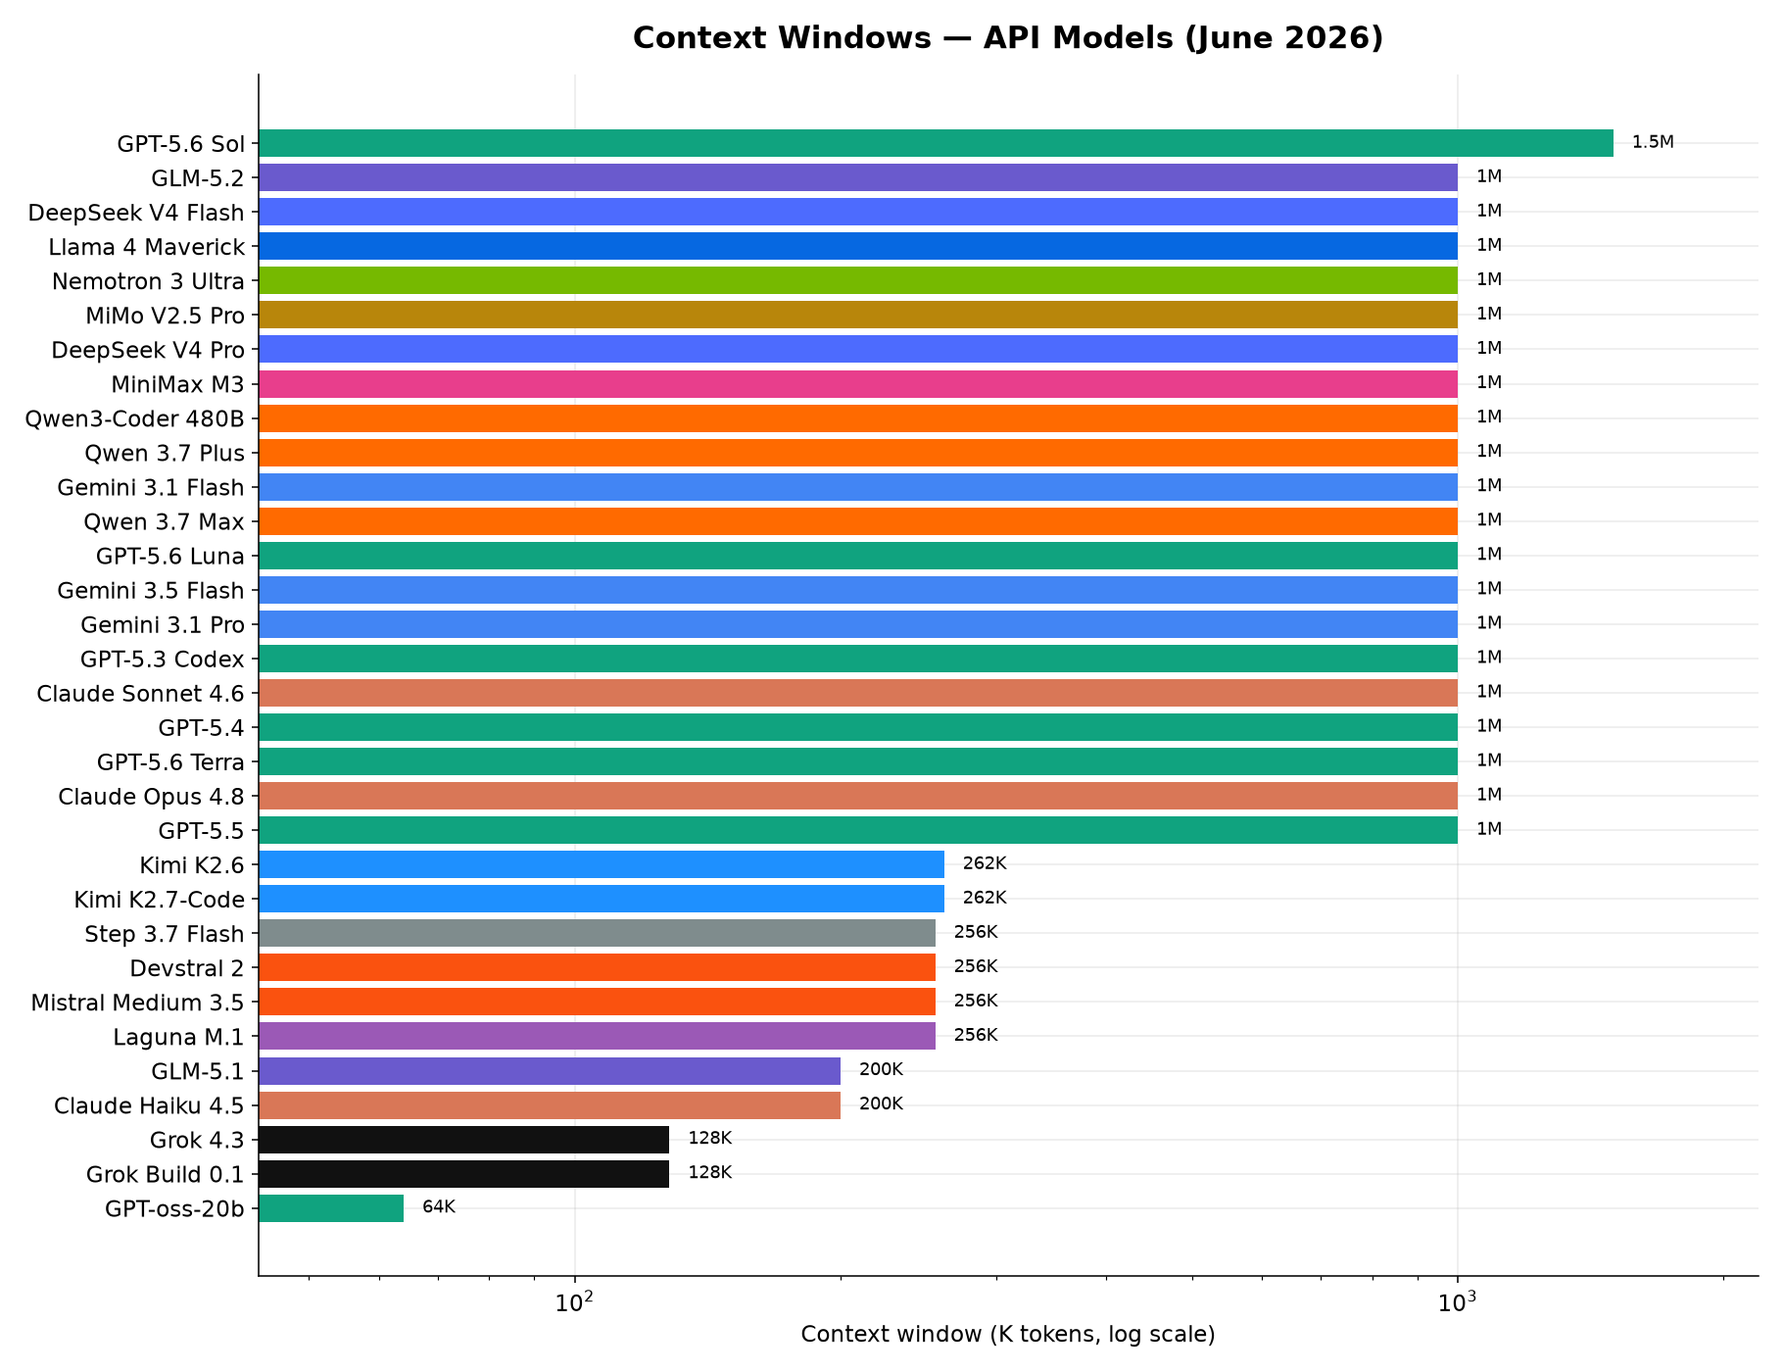
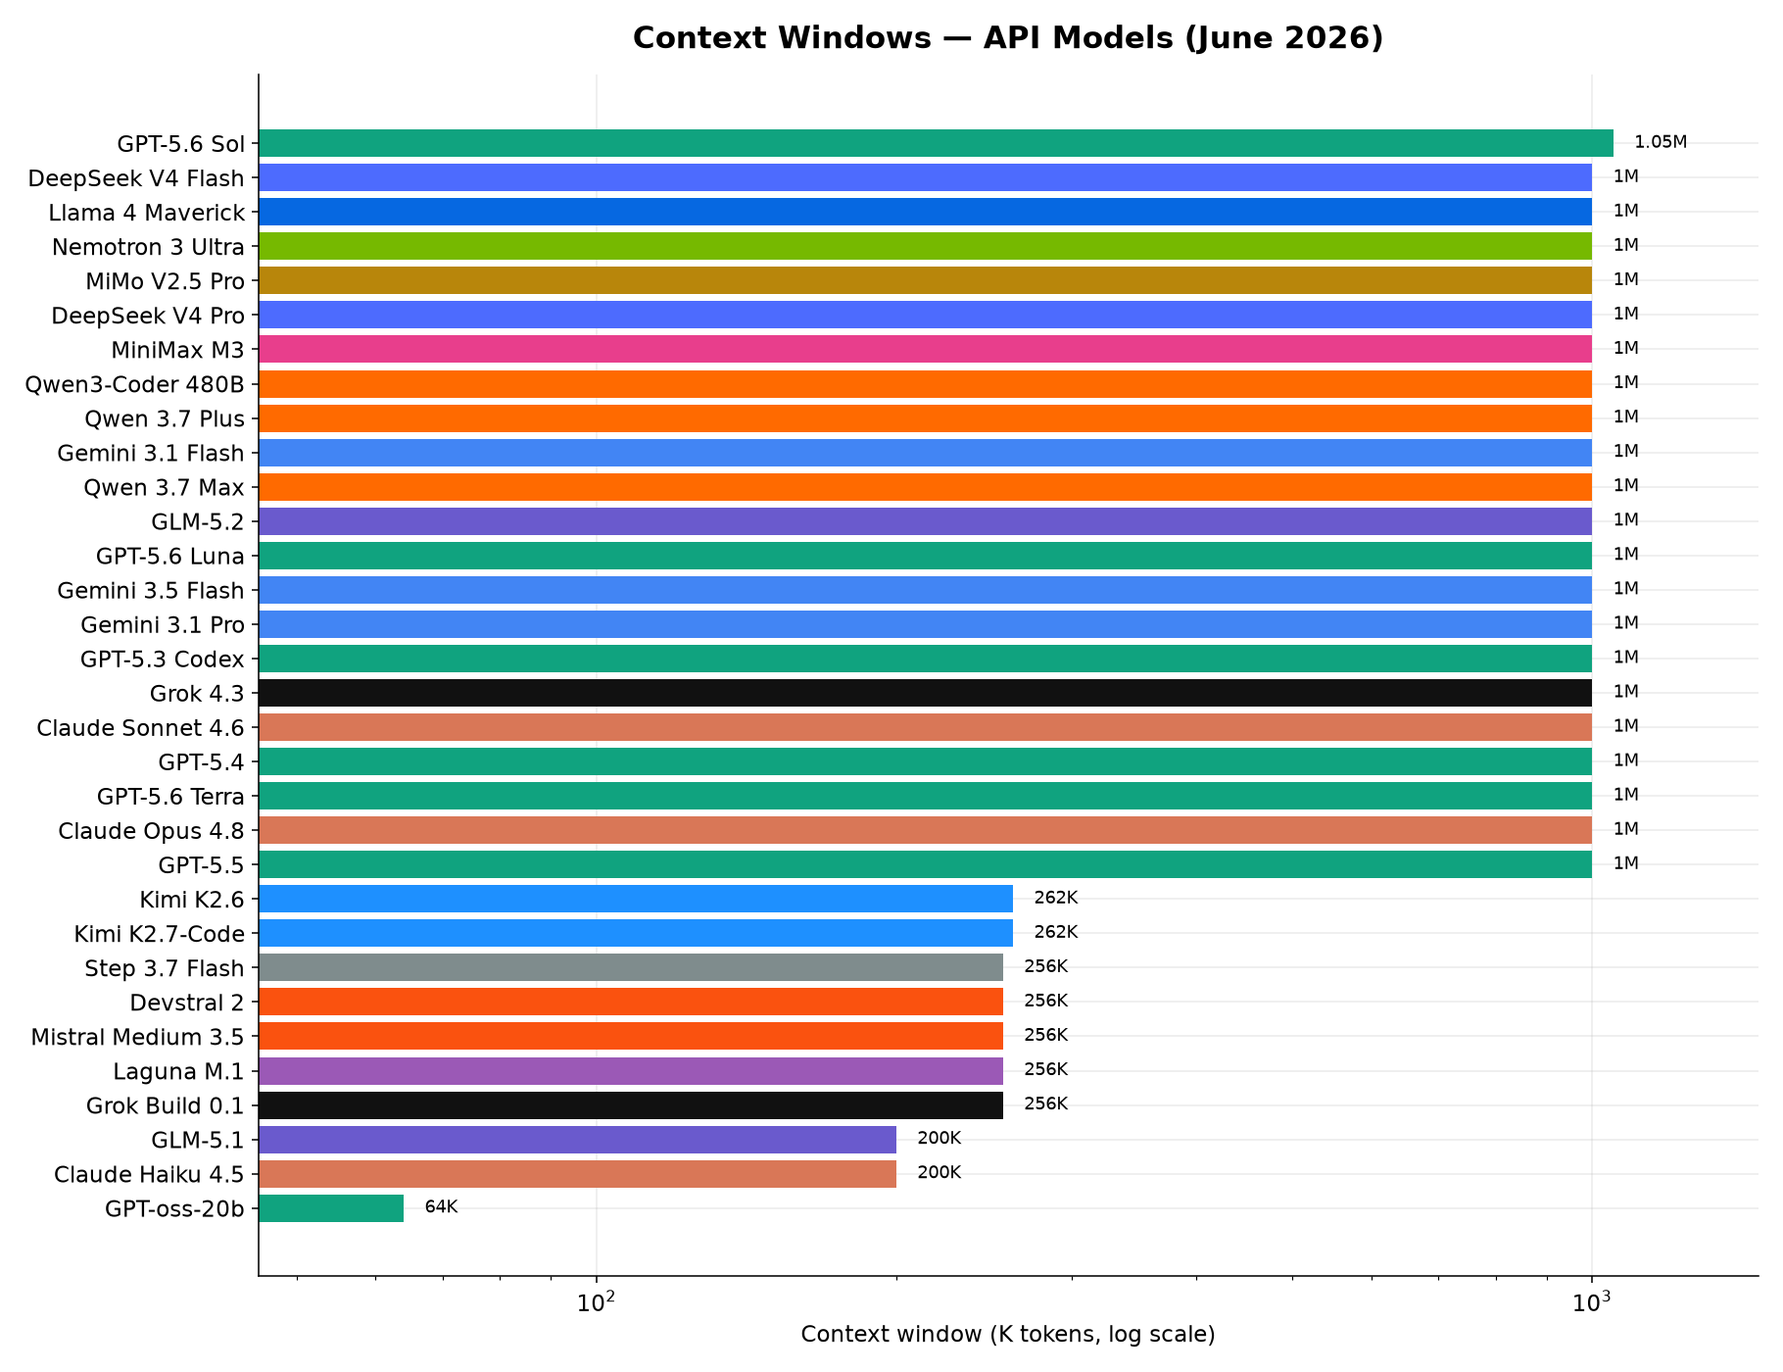
fix(models): fix stale prices/context, add new model ids
glm-5.2 price was off 10x, grok context stale 128k, sol
ctx wrong. add opus 5, sonnet 5, kimi k3, grok 4.5/4.6,
glm-5/5.3/5-turbo as text-only rows, no price/swe yet.
regen charts from fixed data, fail loud on unmapped color.

diff --git a/charts/gen_charts.py b/charts/gen_charts.py
@@ -30,7 +30,10 @@ COLORS = {
     "Mistral": "#fa520f", "DeepSeek": "#4d6bfe", "Xiaomi": "#b8860b", "Meta": "#0668e1",
     "NVIDIA": "#76b900", "StepFun": "#7f8c8d", "Poolside": "#9b59b6",
 }
-def c(co): return COLORS.get(co, "#999999")
+def c(co):
+    if co not in COLORS:
+        raise KeyError(f"no color mapped for company {co!r} — add it to COLORS in charts/gen_charts.py")
+    return COLORS[co]
 def money(x, _): return f"${x:g}"
 def save(fig, name): fig.tight_layout(); fig.savefig(os.path.join(HERE, name)); plt.close(fig)
 

diff --git a/MODELS.md b/MODELS.md
@@ -27,40 +27,44 @@
 
 | Model | Company | SWE-bench | Src | In $/1M | Out $/1M | Context | Notes |
 |---|---|---|---|---|---|---|---|
-| **Fable 5** | Anthropic | **95.0%** | [V] | $10 | $50 | 1M | Mythos-class (tier above Opus). GA Jun 9 → pulled from subs Jun 23, export-suspended Jun 12 (US controls). SWE-bench Pro 80.3%. 30-day forced retention |
-| **Mythos 5** | Anthropic | **95.5%** | [C] | $10 | $50 | 1M | Same base as Fable 5, safety classifiers removed. "World's strongest cyber model" (ExploitBench 78%). Restricted to Project Glasswing cyber-defenders. Not GA |
-| **GPT-5.6 Sol** | OpenAI | ~91%[est] | [V] | $5 | $30 | 1.5M | Preview Jun 26. Flagship. TB 2.1 **88.8%** (Sol Ultra 91.9%). Max + Ultra (parallel subagents). Cerebras 750 tok/s in July |
-| **GPT-5.6 Terra** | OpenAI | ~88%[est] | [V] | $2.50 | $15 | 1M | Preview Jun 26. GPT-5.5-class at half price |
-| **GPT-5.6 Luna** | OpenAI | ~84%[est] | [V] | $1 | $6 | 1M | Preview Jun 26. Fast/high-volume tier |
+| **Claude Opus 5** | Anthropic | — | — | — | — | 1M | Confirmed via platform.claude.com overview this pass. Context only — no price or SWE-bench number carried over from Opus 4.8, none confirmed for this model yet |
+| **Claude Sonnet 5** | Anthropic | — | — | — | — | 1M | Confirmed via platform.claude.com overview this pass. Context only — no price or SWE-bench number confirmed |
+| **Fable 5** | Anthropic | **95.0%** | [V] | $10 | $50 | 1M | Mythos-class (tier above Opus). GA Jun 9 → pulled from subs Jun 23, export-suspended Jun 12 (US controls). SWE-bench Pro 80.3%. 30-day forced retention. Only the 1M context was re-confirmed this pass — price, SWE-bench number, and the export-suspend story are from the prior pass, not re-checked, treat as stale |
+| **GPT-5.6 Sol** | OpenAI | ~91%[est] | [V] | $5 | $30 | 1.05M | Preview Jun 26. Flagship. TB 2.1 **88.8%** (Sol Ultra 91.9%). Max + Ultra (parallel subagents). Cerebras 750 tok/s in July. Context corrected from a prior 1.5M error — 1.05M is what OpenAI states. Price and SWE-bench estimate not re-confirmed this pass |
+| **GPT-5.6 Terra** | OpenAI | ~88%[est] | [V] | $2.50 | $15 | 1M | Preview Jun 26. GPT-5.5-class at half price. Price and SWE-bench estimate not re-confirmed this pass |
+| **GPT-5.6 Luna** | OpenAI | ~84%[est] | [V] | $1 | $6 | 1M | Preview Jun 26. Fast/high-volume tier. Price and SWE-bench estimate not re-confirmed this pass |
 | GPT-5.5 | OpenAI | 88.7% | open | $5 | $30 | 1M | Leads Terminal-Bench 2.1 (83.4% via Codex CLI) |
-| Claude Opus 4.8 | Anthropic | 88.6% | [V] | $5 | $25 | 1M | Released May 28. Best SWE-bench Pro (69.2%). Scale SEAL ~51.9% |
+| Claude Opus 4.8 | Anthropic | 88.6% | [V] | $5 | $25 | 1M | Released May 28. Best SWE-bench Pro (69.2%). Scale SEAL ~51.9%. **Superseded** — Claude Opus 5 is now the current flagship, kept here as history |
 | GPT-5.3 Codex | OpenAI | 85.0% | [C] | $1.75 | $14 | 1M | Codex API, agentic coding focus |
 | GPT-5.4 | OpenAI | 84.1% | open | $2.50 | $15 | 1M | Scale SEAL 59.1% (xHigh) |
-| Claude Sonnet 4.6 | Anthropic | 82.8% | [V] | $3 | $15 | 1M | Best-value Anthropic flagship |
+| Claude Sonnet 4.6 | Anthropic | 82.8% | [V] | $3 | $15 | 1M | Best-value Anthropic flagship. **Superseded** — Claude Sonnet 5 is now the current mid tier, kept here as history |
 | **Ornith-1.0-397B** | DeepReinforce | 82.4% | open | — | — | — | Jun 25, MIT weights (HF, self-host). 397B MoE flagship; family also 9B/31B/35B. Self-scaffolding RL — writes own agent scaffold before solving. TB 2.1 77.5%. Beats Opus 4.7, not 4.8. Vendor benches |
-| GLM-5.1 | Z.AI | 81.0% | [V] | $1.40 | $4.40 | 200K | First open model to top SWE-bench Pro |
-| DeepSeek V4 Pro | DeepSeek | 80.6% | open | $0.44 | **$0.87** | 1M | MIT license. Cache hits $0.001/M. Sweet spot |
-| Gemini 3.1 Pro | Google | 80.6% | open | $2 | $12 | 1M | Price doubles >200K ctx |
+| GLM-5.1 | Z.AI | 81.0% | [V] | $1.40 | $4.40 | 200K | First open model to top SWE-bench Pro. Price confirmed on docs.z.ai llms.txt. Context is not stated on the official pricing doc — treat 200K as unverified, carried from a prior pass |
+| DeepSeek V4 Pro | DeepSeek | 80.6% | open | $0.44 | **$0.87** | 1M | MIT license. Cache hits $0.001/M. Sweet spot. DeepSeek's own docs flag a pricing update Aug 13 2026 without giving new numbers — this price is presumed stale, not current |
+| Gemini 3.1 Pro | Google | 80.6% | open | $2 | $12 | 1M | Price doubles >200K ctx. The preview id and status are confirmed on Google's own model list; the 1M ctx, price, and SWE-bench figures were not re-checked against that list this pass — treat as a prior-pass caveat |
 | MiniMax M3 | MiniMax | 80.5% | open | $0.30 | **$1.20** | 1M | Open-weight MIT. Sweet spot |
-| Qwen 3.7 Max | Alibaba | 80.4% | open | $1.25 | $3.75 | 1M | Promo; list $2.50/$7.50 |
+| Qwen 3.7 Max | Alibaba | 80.4% | open | $1.25 | $3.75 | 1M | Promo; list $2.50/$7.50. The `qwen3.7-max` id is confirmed on Alibaba's Model Studio list; the 1M ctx figure and the "open" weight tag are not backed by that primary source (a secondary aggregator claims closed-weight instead, which contradicts "open") — both numbers here are unverified, carried from a prior pass |
 | Qwen 3.7 Plus | Alibaba | ~78% | open | $0.50 | $2.00 | 1M | Reasoning model, 1M ctx |
-| Kimi K2.6 | Moonshot | 80.2% | open | $0.95 | **$1.50** | 262K | 4,000+ tool calls/session. Sweet spot |
-| **Kimi K2.7-Code** | Moonshot | ~80%[est] | open | $0.95 | **$4** | 262K | Jun 12. 1T MoE/32B active, forced thinking. +21.8% Kimi Code Bench v2 vs K2.6, -30% reasoning tokens. Modified MIT. Vendor benches only |
-| Grok 4.3 | xAI | ~78% | [C] | $3 | $15 | 128K | Closed eval |
+| Kimi K2.6 | Moonshot | 80.2% | open | $0.95 | **$1.50** | 256K | 4,000+ tool calls/session. Sweet spot |
+| **Kimi K2.7-Code** | Moonshot | ~80%[est] | open | $0.95 | **$4** | 256K | Jun 12. 1T MoE/32B active, forced thinking. +21.8% Kimi Code Bench v2 vs K2.6, -30% reasoning tokens. Modified MIT. Vendor benches only |
+| **Kimi K3** | Moonshot | — | — | — | — | 1M | Confirmed live on platform.kimi.ai, described there as "most capable to date." Context only — no price or SWE-bench number confirmed this pass. Moved up from the Upcoming table now that it has shipped |
+| Grok 4.3 | xAI | ~78% | [C] | $3 | $15 | 1M | Closed eval. Context corrected from a prior 128K error — docs.x.ai states 1M |
 | Gemini 3.5 Flash | Google | 78.8% | open | $1.50 | $9 | 1M | |
+| **Grok 4.6** | xAI | — | — | — | — | 500K | docs.x.ai primary. Context only — no price or SWE-bench confirmed |
+| **Grok 4.5** | xAI | — | — | — | — | 500K | docs.x.ai primary. Context only — no price or SWE-bench confirmed |
 | Qwen3-Coder 480B | Alibaba | 78.0% | open | $0.22 | $1.80 | 1M | Apache 2.0, MoE 35B active. Free on OpenRouter |
-| Mistral Medium 3.5 | Mistral | 77.6% | open | $1.50 | $7.50 | 256K | EU-hosted, GDPR |
-| **Meta Muse Spark** | Meta (MSL) | 77.4% | [V] | — | — | — | Apr 8. First Meta Superintelligence Labs model (not Llama). Free on meta.ai, API private-preview only. Strong multimodal/health, weak agentic (TB 2.0 59%). Closed |
+| Mistral Medium 3.5 | Mistral | 77.6% | open | $1.50 | $7.50 | 256K | EU-hosted, GDPR. Context is from a prior pass, not re-confirmed against a primary source this time |
+| **Meta Muse Spark** | Meta (MSL) | 77.4% | [V] | — | — | — | Apr 8. First Meta Superintelligence Labs model (not Llama). Free on meta.ai, API private-preview only. Strong multimodal/health, weak agentic (TB 2.0 59%). Closed. Meta's own blog confirms the Muse family exists and is not Llama-branded, but the launch post itself wasn't fetched this pass — the rest of this row (SWE-bench, "free on meta.ai", Apr 8 date) is a prior-pass claim, not re-verified |
 | Laguna M.1 | Poolside | ~78% | [C] | $4 | $8 | 256K | Coding specialist |
 | MiMo V2.5 Pro | Xiaomi | 75.0% | open | $0.44 | **$0.87** | 1M | 40-60% fewer tokens/trajectory. Sweet spot |
 | Claude Haiku 4.5 | Anthropic | 74.8% | [V] | $1 | $5 | 200K | Fast, cheap Claude |
 | **MAI-Code-1-Flash** | Microsoft | ~74%[est] | [V] | — | — | — | 137B MoE/5B active. "Haiku-class but cheaper." Bundled into all Copilot plans + VS Code. Weights tunable. OpenRouter/Fireworks/Baseten |
-| Llama 4 Maverick | Meta | 74.0% | open | $0.20 | $0.39 | 1M | Apache 2.0 via third-party |
+| Llama 4 Maverick | Meta | 74.0% | open | $0.20 | $0.39 | 1M | Apache 2.0 via third-party. Meta's own blog does not restate the 1M figure — treat context as a caveat, not confirmed by the primary source |
 | Gemini 3.1 Flash | Google | 74.0% | open | $0.30 | $2.50 | 1M | Cheapest Google |
 | Devstral 2 | Mistral | 72.2% | open | $0.40 | $0.90 | 256K | Best-value Mistral open-weight |
-| DeepSeek V4 Flash | DeepSeek | 72.0% | open | $0.14 | **$0.28** | 1M | Cheapest serious coding API |
-| GLM-5.2 | Z.AI | ~72% | [V] | $0.14 | **$0.28** | 1M | MIT. Free on chat.z.ai + Puter.js. Released Jun 16 |
-| Grok Build 0.1 | xAI | ~76% | [C] | $5 | $25 | 128K | Coding-specialist, limited |
+| DeepSeek V4 Flash | DeepSeek | 72.0% | open | $0.14 | **$0.28** | 1M | Cheapest serious coding API. DeepSeek's own docs flag a pricing update Aug 13 2026 without giving new numbers — this price is presumed stale, not current |
+| GLM-5.2 | Z.AI | ~72% | [V] | $1.40 | **$4.40** | 1M | Corrected from a prior $0.14/$0.28 — that was a 10x error, docs.z.ai llms.txt gives $1.40/$4.40. Context (1M) is not on the official pricing doc, treat as unverified. MIT license claim comes from a secondary blog, not confirmed. Free access is chat.z.ai's web chat only, not the paid API — don't read "free" onto the API tier |
+| Grok Build 0.1 | xAI | ~76% | [C] | $5 | $25 | 256K | Coding-specialist, limited. Context corrected from a prior 128K error — docs.x.ai states 256K |
 | Nemotron 3 Ultra | NVIDIA | ~67% | [C] | $0.20 | $0.50 | 1M | Open-weight, 30% fewer tokens |
 | Step 3.7 Flash | StepFun | ~69% | [C] | $0.30 | $0.60 | 256K | Interpolated |
 | GPT-oss-20b | OpenAI | 57.0% | open | $0.07 | $0.14 | 64K | OpenAI open-weight |
@@ -86,11 +90,11 @@
 
 | Model | Company | SWE-bench | In $/1M | Out $/1M | Access | Notes |
 |---|---|---|---|---|---|---|
-| Kimi K2.6 | Moonshot | 80.2% | $0 | $0 | Free trial credits | Best free quality |
+| Kimi K2.6 | Moonshot | 80.2% | $0.95 | $1.50 | Trial credit, amount unverified | Not a free tier — Moonshot's own docs say only the file-extraction endpoint is temporarily free, inference is paid. Dropped the "$0/$0 best free quality" framing this pass; see [CREDITS.md](./CREDITS.md) Part 6 |
 | Qwen3-Coder 480B | Alibaba | 78.0% | $0 | $0 | OpenRouter `:free` | 20 RPM, 50 req/day |
 | Llama 4 Maverick | Meta | 74.0% | $0 | $0 | OpenRouter `:free` | Rate-limited |
-| Qwen3-Coder-Next | Alibaba | 70.6% | $0 | $0 | New account trial | 1M tok/model, 90-day |
-| GLM-5.2 | Z.AI | ~72% | $0 | $0 | chat.z.ai / Puter.js | 1M ctx, MIT. Released Jun 16 |
+| Qwen3-Coder-Next | Alibaba | 70.6% | $0 | $0 | New account trial | 1M tok/model, 90-day claim from an aggregator (apidog), not Alibaba directly — unverified |
+| GLM-5.2 | Z.AI | ~72% | $0 | $0 | chat.z.ai / Puter.js | This $0 is the web chat and Puter.js passthrough, not the paid API ($1.40/$4.40, see Table 1). Context and MIT-license claim are unverified this pass |
 | DeepSeek V4 Flash | DeepSeek | 72.0% | $0.14 | **$0.28** | Paid (near-free) | No rate limit |
 | Nemotron 3 Super | NVIDIA | ~65% | $0 | $0 | build.nvidia.com NIM | Rate-limited |
 | GLM-4.7-Flash | Z.AI | 58.0% | $0 | $0 | Z.AI free tier | Generous limits |
@@ -105,8 +109,10 @@
 ### Anthropic
 | Model | SWE-bench | In/Out $/1M | Context |
 |---|---|---|---|
-| Opus 4.8 | 88.6% [V] | $5/$25 | 1M |
-| Sonnet 4.6 | 82.8% [V] | $3/$15 | 1M |
+| Opus 5 | — | — | 1M |
+| Sonnet 5 | — | — | 1M |
+| Opus 4.8 (superseded) | 88.6% [V] | $5/$25 | 1M |
+| Sonnet 4.6 (superseded) | 82.8% [V] | $3/$15 | 1M |
 | Haiku 4.5 | 74.8% [V] | $1/$5 | 200K |
 
 ### OpenAI
@@ -128,15 +134,20 @@
 ### Z.AI (Zhipu)
 | Model | SWE-bench | In/Out $/1M | Context | Access |
 |---|---|---|---|---|
-| GLM-5.1 | 81.0% [V] | $1.40/$4.40 | 200K | API paid |
-| GLM-5.2 | ~72% [V] | $0.14/$0.28 | 1M | chat.z.ai free, Puter.js free |
-| GLM-4.7-Flash | 58.0% | $0/$0 | — | Z.AI API free tier |
+| GLM-5.3 | — | — | — | Id confirmed live on docs.z.ai llms.txt this pass; no price or SWE-bench number published there |
+| GLM-5.2 | ~72% [V] | $1.40/$4.40 | 1M (unverified) | Corrected from a prior $0.14/$0.28 (10x error). API is paid — chat.z.ai and Puter.js are free front-ends, not a free API tier |
+| GLM-5.1 | 81.0% [V] | $1.40/$4.40 | 200K (unverified) | API paid. Context not on the official pricing doc |
+| GLM-5 | — | — | — | Id + price ($1.00/$3.20) confirmed on docs.z.ai llms.txt; no SWE-bench or context published there |
+| GLM-5-Turbo | — | — | — | Id + price ($1.20/$4.00) confirmed on docs.z.ai llms.txt; no SWE-bench or context published there |
+| GLM-4.7-Flash | 58.0% | $0/$0 | — | Z.AI API free tier — this one is actually free, unlike the GLM-5.x line |
 
 ### DeepSeek
 | Model | SWE-bench | In/Out $/1M | Context |
 |---|---|---|---|
-| V4 Pro | 80.6% | $0.44/$0.87 | 1M |
-| V4 Flash | 72.0% | $0.14/$0.28 | 1M |
+| V4 Pro | 80.6% | $0.44/$0.87 (stale — see caveat below) | 1M |
+| V4 Flash | 72.0% | $0.14/$0.28 (stale — see caveat below) | 1M |
+
+> DeepSeek's own docs note a pricing update Aug 13 2026 without stating the new numbers. Both prices above are the last confirmed figures, presumed stale rather than current.
 
 ---
 
@@ -144,12 +155,14 @@
 
 | Context | Models |
 |---|---|
-| 1M | GPT-5.5, GPT-5.4, GPT-5.3, Opus 4.8, Sonnet 4.6, DeepSeek V4 Pro/Flash, MiniMax M3, Qwen 3.7 Max, Qwen3-Coder 480B, Llama 4 Mav, Gemini 3.x, MiMo V2.5 Pro, Nemotron 3, GLM-5.2 |
-| 262K | Kimi K2.6, Kimi K2.7-Code |
-| 256K | Mistral Medium 3.5, Devstral 2, Laguna M.1, Step 3.7 Flash |
-| 200K | GLM-5.1, Claude Haiku 4.5 |
-| 128K | Grok 4.3, Grok Build 0.1 |
+| 1.05M | GPT-5.6 Sol |
+| 1M | Opus 5, Sonnet 5, Kimi K3, GPT-5.5, GPT-5.4, GPT-5.3, Opus 4.8, Sonnet 4.6, Fable 5, DeepSeek V4 Pro/Flash, MiniMax M3, Qwen 3.7 Max (unverified), Qwen3-Coder 480B, Llama 4 Mav, Gemini 3.x, MiMo V2.5 Pro, Nemotron 3, GLM-5.2 (unverified), Grok 4.3 |
+| 500K | Grok 4.6, Grok 4.5 |
+| 256K | Kimi K2.6, Kimi K2.7-Code, Grok Build 0.1, Mistral Medium 3.5, Devstral 2, Laguna M.1, Step 3.7 Flash |
+| 200K | GLM-5.1 (unverified), Claude Haiku 4.5 |
 | 64K | GPT-oss-20b |
+
+> Grok 4.3 and Grok Build 0.1 contexts were corrected this pass — the archive previously had both at 128K, which was wrong; docs.x.ai states 1M and 256K respectively. Kimi's 262K figure was replaced with 256K archive-wide — same number (262,144), one unit, not a correction.
 
 ---
 
@@ -170,11 +183,10 @@
 | Model | Company | Status |
 |---|---|---|
 | **Gemini 3.5 Pro** | Google | Announced Google I/O (May 19), GA imminent. ~$15/$60 expected, **2M ctx**, Deep Think mode |
-| **Fable 5** | Anthropic | Mythos-class (95%), GA Jun 9 → **export-suspended Jun 12** (US controls). Now in Table 1 |
+| **Fable 5** | Anthropic | Mythos-class (95%), GA Jun 9 → **export-suspended Jun 12** (US controls). Now in Table 1. Only its context was re-confirmed this pass; the rest is a prior-pass claim |
 | **DeepSeek V5** | DeepSeek | Rumored Q2–Q3 2026 — expected to push Tier-1 capability + drop cost further |
-| **Kimi K3** | Moonshot | Rumored Q3 2026 |
 | **MAI-Thinking-1** | Microsoft | Flagship reasoning, private preview via Foundry (Build 2026, Jun 2). 35B MoE, 97% AIME 2025, 53% SWE-bench Pro, 256K ctx. Trained no-distillation, preferred over Sonnet 4.6 in blind evals |
-| **Mythos 5** | Anthropic | Mythos-class cyber model (95.5%). Project-Glasswing-only with US gov — never GA |
+| **Mythos 5** | Anthropic | Invite-only twin of Fable 5 (same base, safety classifiers removed), not GA. "World's strongest cyber model" claim (ExploitBench 78%) and the $10/$50, 95.5% SWE-bench numbers are vendor-reported and not re-verified this pass — treat as unconfirmed, not fact. Project-Glasswing-only with US gov |
 | **Gemini Omni Pro** | Google | Full any-in/any-out follow-up to Omni Flash (I/O May 19). Dev API "coming weeks", no pricing yet |
 
 ---
@@ -188,6 +200,8 @@
 | **Apple AFM 3** | Apple | WWDC Jun 8 family powering new Siri AI. On-device: Core (3B dense), Core Advanced (20B sparse, ~1–4B active via Instruction-Following Pruning). Cloud: AFM 3 Cloud, ADM 3 Cloud (image), Cloud Pro (Nvidia GPUs in Google Cloud under Private Cloud Compute). Gemini used as distillation *teacher*, not runtime. No EU/China at launch |
 | **Gemini Omni Flash** | Google | First "any-to-any" Google model (I/O May 19). Any input → ~10s video+audio out, conversational editing, personal avatars (number-handshake anti-deepfake), SynthID + C2PA baked in. AI Plus/Pro/Ultra + free in YouTube Shorts. No dev API yet |
 | **Meta Muse Spark** | Meta | Free on meta.ai (also in Table 1) — listed here as the consumer entry point; API is partner-only |
+
+> **Unverified, not listed as a row:** a `qwen3.8-max` id (2.4T param, 1M ctx, Aug 3 2026 launch claim) circulates on a secondary aggregator (marktechpost); Alibaba's own research page for it was never fetched this pass. Not given a table row anywhere in this archive until a primary source confirms it.
 
 **How to find early access:** search `"<model> early access" / "<model> preview" / "<model> waitlist"`, the vendor's Discord/X, and `r/LocalLLaMA` + `r/singularity`. Open-weight Chinese models (GLM/DeepSeek/Kimi/Qwen/MiniMax) usually ship **directly as MIT/Apache weights** — no waitlist; grab them on HuggingFace/ModelScope day one.
 
@@ -206,7 +220,7 @@
 | **Tier-routing** | Cheap model for 95% traffic, Opus for the hard 5% | [Alorse/cc-compatible-models](https://github.com/Alorse/cc-compatible-models) |
 | **Ollama Cloud** | `glm-5.1:cloud`, `kimi-k2.5:cloud`, `qwen3.5:cloud` | ollama.com |
 
-> ⚠ Subscription proxies are reverse-engineered — ToS/account-ban risk. `iFlow`, `Qwen`, and `Gemini CLI` free tiers were **discontinued in 2026**; use Kiro / OpenCode-Free / Vertex instead.
+> ⚠ Subscription proxies are reverse-engineered — ToS/account-ban risk. `iFlow` and `Qwen` free tiers were **discontinued in 2026**; use Kiro / OpenCode-Free / Vertex instead. `Gemini CLI`'s free tier is still live (60 req/min, 1,000 req/day) — a discontinuation claim here in a prior pass was unverified and has been removed. See [AGENTS.md](./AGENTS.md) Part 1.
 
 **Multi-tier routing (the dominant 2026 production pattern):** Tier 1 ≈70% → DeepSeek V4 Flash ($0.28/M) · Tier 2 ≈25% → Kimi K2.6 / GLM-5.1 (≈$1/M) · Tier 3 ≈5% → Opus 4.8. Saves **85–95%** on coding-API cost vs all-Opus, <10% quality loss.
 
